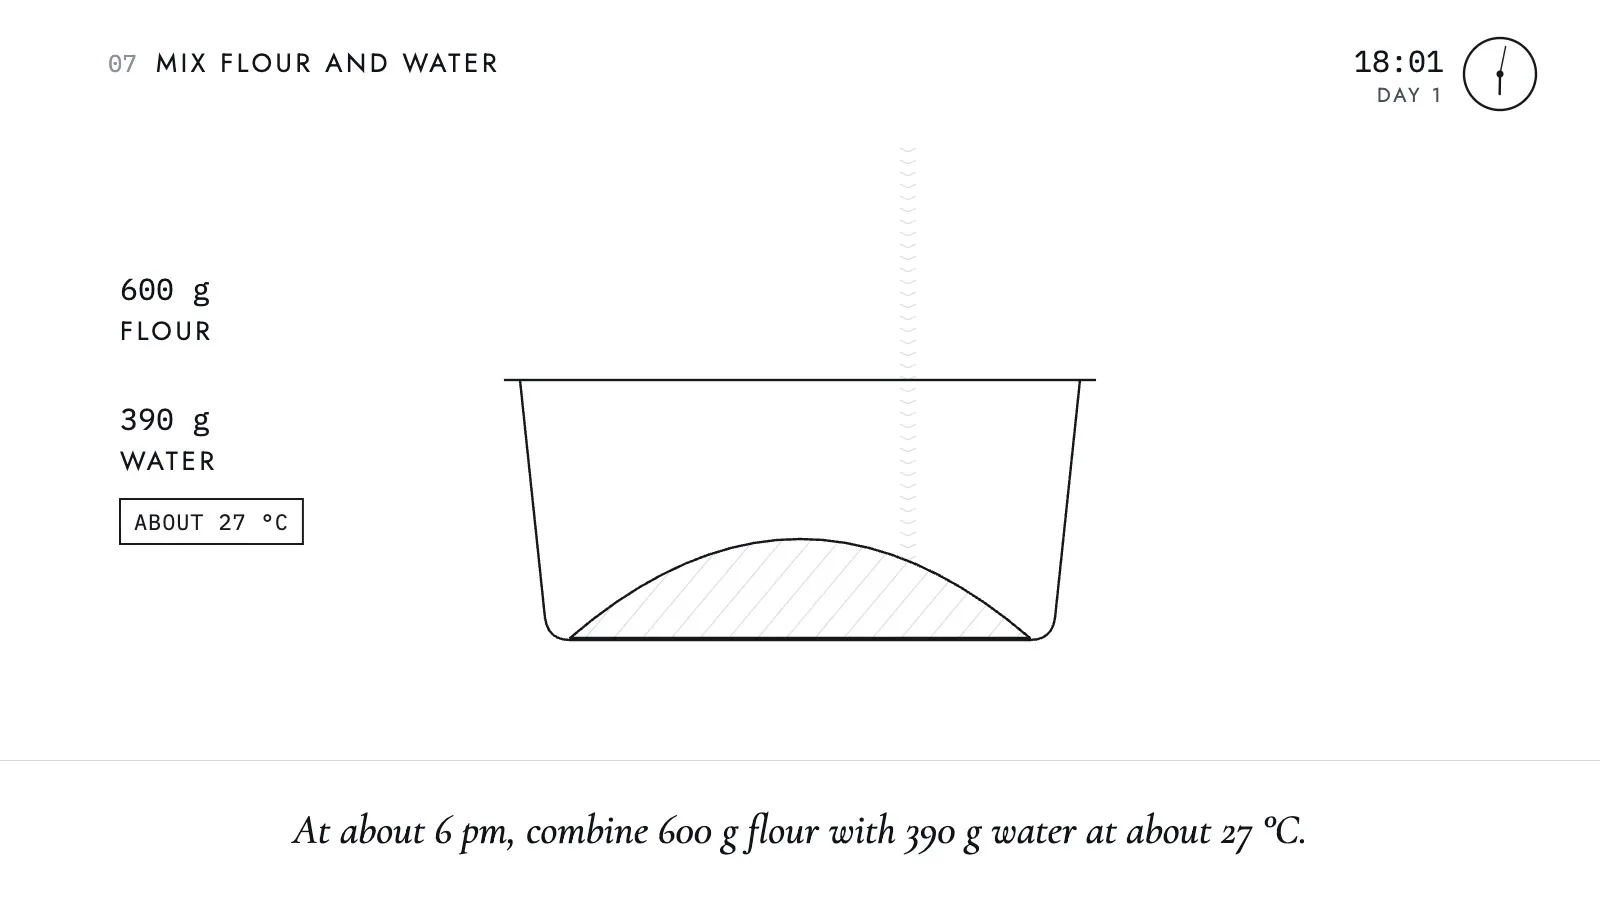
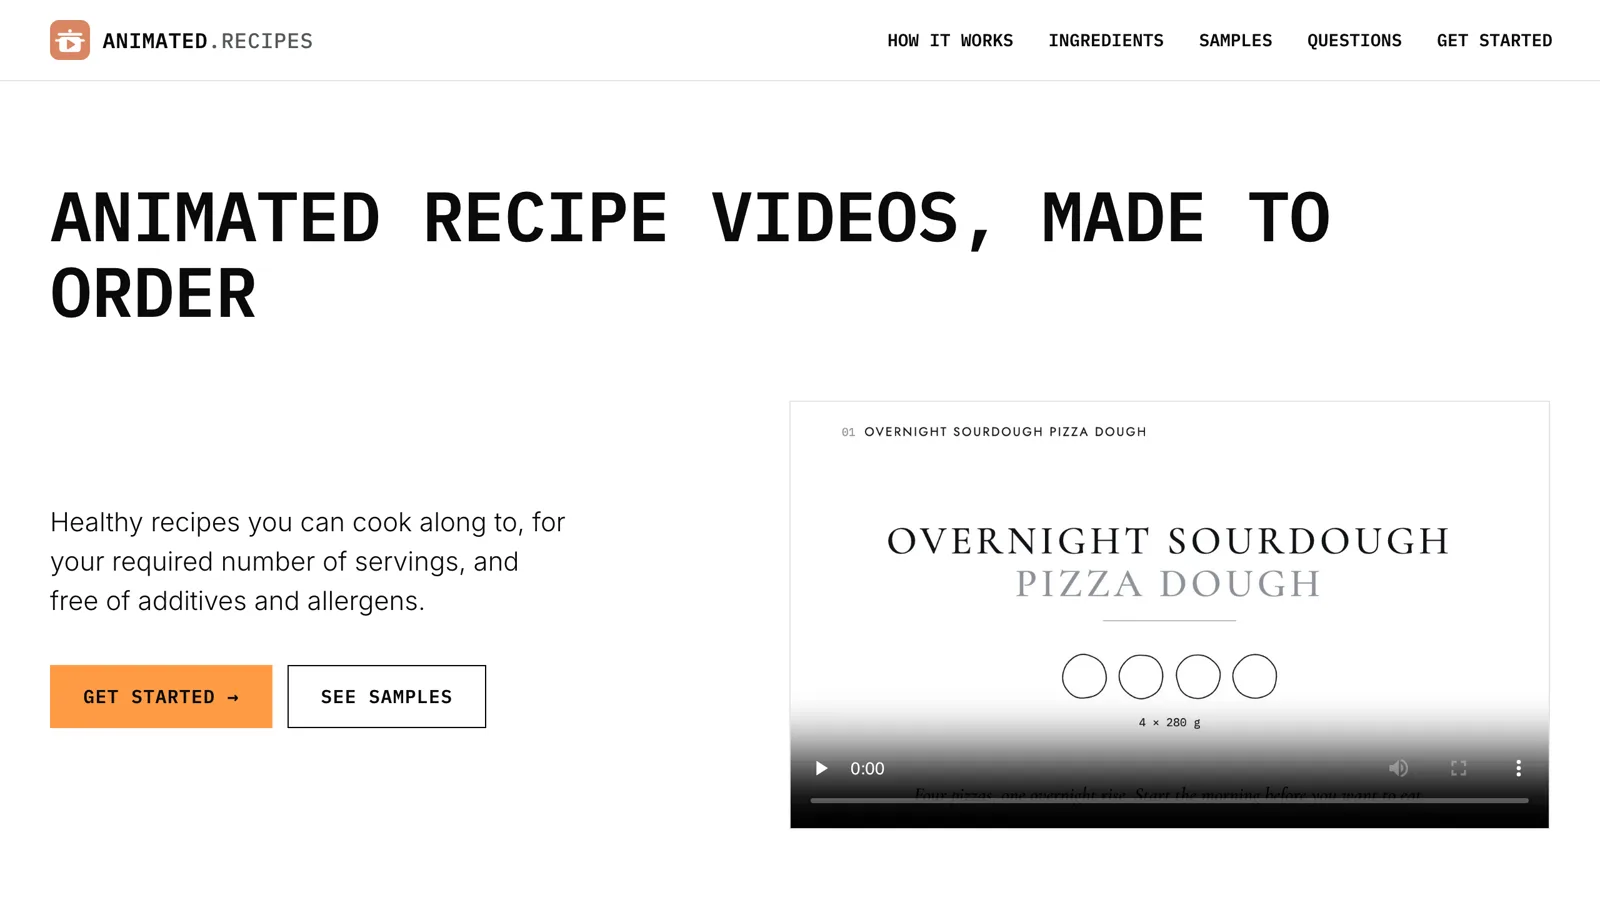
More plugins shows animated.recipes' home page, and its opening sentence leaves out Kinetik

diff --git a/site/index.html b/site/index.html
@@ -356,10 +356,10 @@
   <section class="s-line" id="plugins">
     <div class="wrap">
       <h2 class="title">More plugins</h2>
-      <p class="lede">fabrik's marketplace in Claude also has two of Kinetik's plugins for life outside work. You add them the same way you add fabrik.</p>
+      <p class="lede">fabrik's marketplace in Claude also has two plugins for life outside work. You add them the same way you add fabrik.</p>
       <div class="pl-row">
         <a class="pl-card" href="https://animated.recipes">
-          <img src="plugins/animated-recipes.webp" alt="A step from an animated recipe video: a drawn bowl of flour and water, with the amounts beside it and the narration underneath." width="1600" height="900" loading="lazy">
+          <img src="plugins/animated-recipes.webp" alt="animated.recipes' home page, under the words Animated recipe videos, made to order." width="1600" height="900" loading="lazy">
           <p class="pl-tag">animated.recipes</p>
           <h3>Recipe videos you can cook along to.</h3>
           <p class="pl-text">Ask for a dish and Claude writes an original whole-food recipe for your number of servings. Then it draws each step, narrates it and makes the video, with a recipe card to print.</p>
